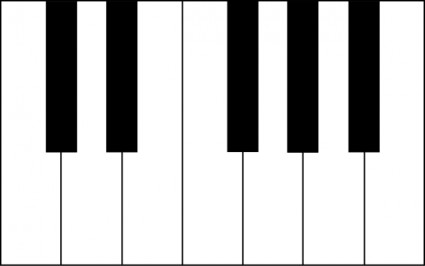
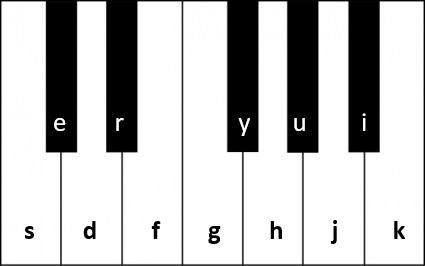
~ update styling and naming

diff --git a/src/web-client/Pages/Index.razor.css b/src/web-client/Pages/Index.razor.css
@@ -1,0 +1,17 @@
+.keyboard-display {
+    display: block;
+}
+
+.keyboard-buttons {
+    display: none;
+}
+
+@media (max-width: 600px) {
+    .keyboard-display {
+        display: none;
+    }
+
+    .keyboard-buttons {
+        display: block;
+    }
+}

diff --git a/src/server/Controllers/MidiController.cs b/src/server/Controllers/MidiController.cs
@@ -8,8 +8,8 @@ namespace server.Controllers;
 [ApiController]
 public class MidiController : ControllerBase
 {
-    private readonly IHubContext<MessageHubClient, IMessageHubClient> messageHub;
-    public MidiController(IHubContext<MessageHubClient, IMessageHubClient> _messageHub)
+    private readonly IHubContext<NoteHubClient, INoteHubClient> messageHub;
+    public MidiController(IHubContext<NoteHubClient, INoteHubClient> _messageHub)
     {
         messageHub = _messageHub;
     }

diff --git a/src/web-client/Services/KeyboardService.cs b/src/web-client/Services/KeyboardService.cs
@@ -26,6 +26,7 @@ public class KeyboardService : IKeyboardService
 
         _connection.Closed += async (error) =>
         {
+            // todo: error handling
             await Task.Delay(new Random().Next(0, 5) * 1000);
             await _connection.StartAsync();
         };

diff --git a/src/server/NoteHubClient.cs b/src/server/NoteHubClient.cs
@@ -3,7 +3,7 @@ using web_client.Services;
 
 namespace server;
 
-public class MessageHubClient : Hub<IMessageHubClient>
+public class NoteHubClient : Hub<INoteHubClient>
 {
     public async Task Update(Note note, string username)
     {

diff --git a/src/server/Program.cs b/src/server/Program.cs
@@ -32,7 +32,7 @@ app.UseRouting();
 
 app.UseEndpoints(endpoints => {
     endpoints.MapControllers();
-    endpoints.MapHub<MessageHubClient>("/note");
+    endpoints.MapHub<NoteHubClient>("/note");
 });
 
 app.UseHttpsRedirection();

diff --git a/src/server/INoteHubClient.cs b/src/server/INoteHubClient.cs
@@ -2,7 +2,7 @@
 
 namespace server;
 
-public interface IMessageHubClient
+public interface INoteHubClient
 {
     Task Update(Note note, string username);
 }
